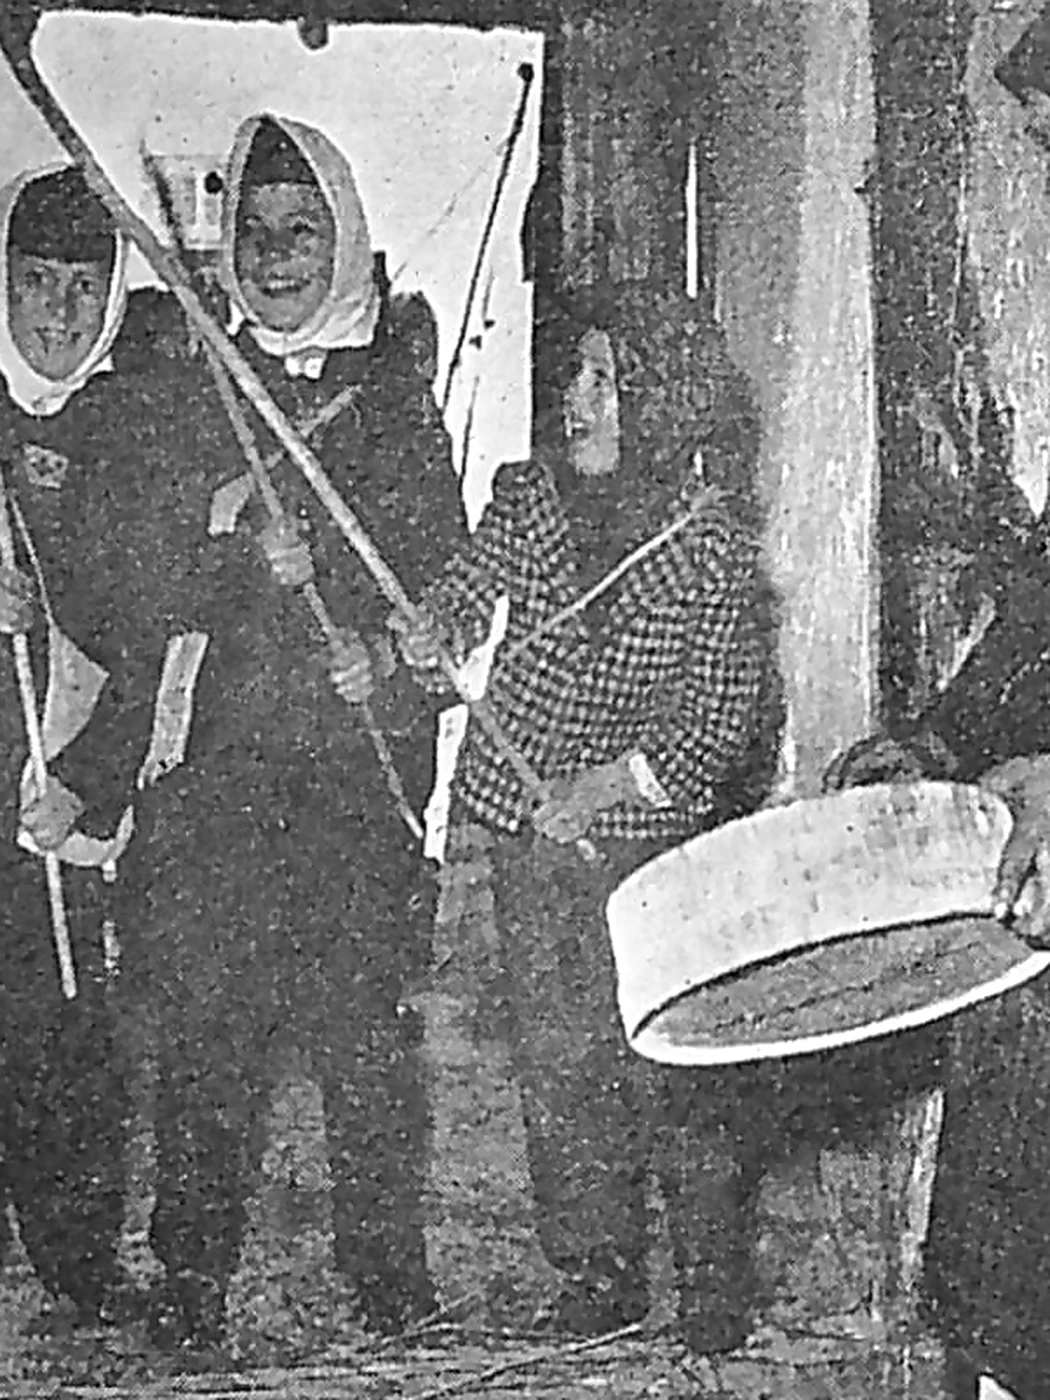
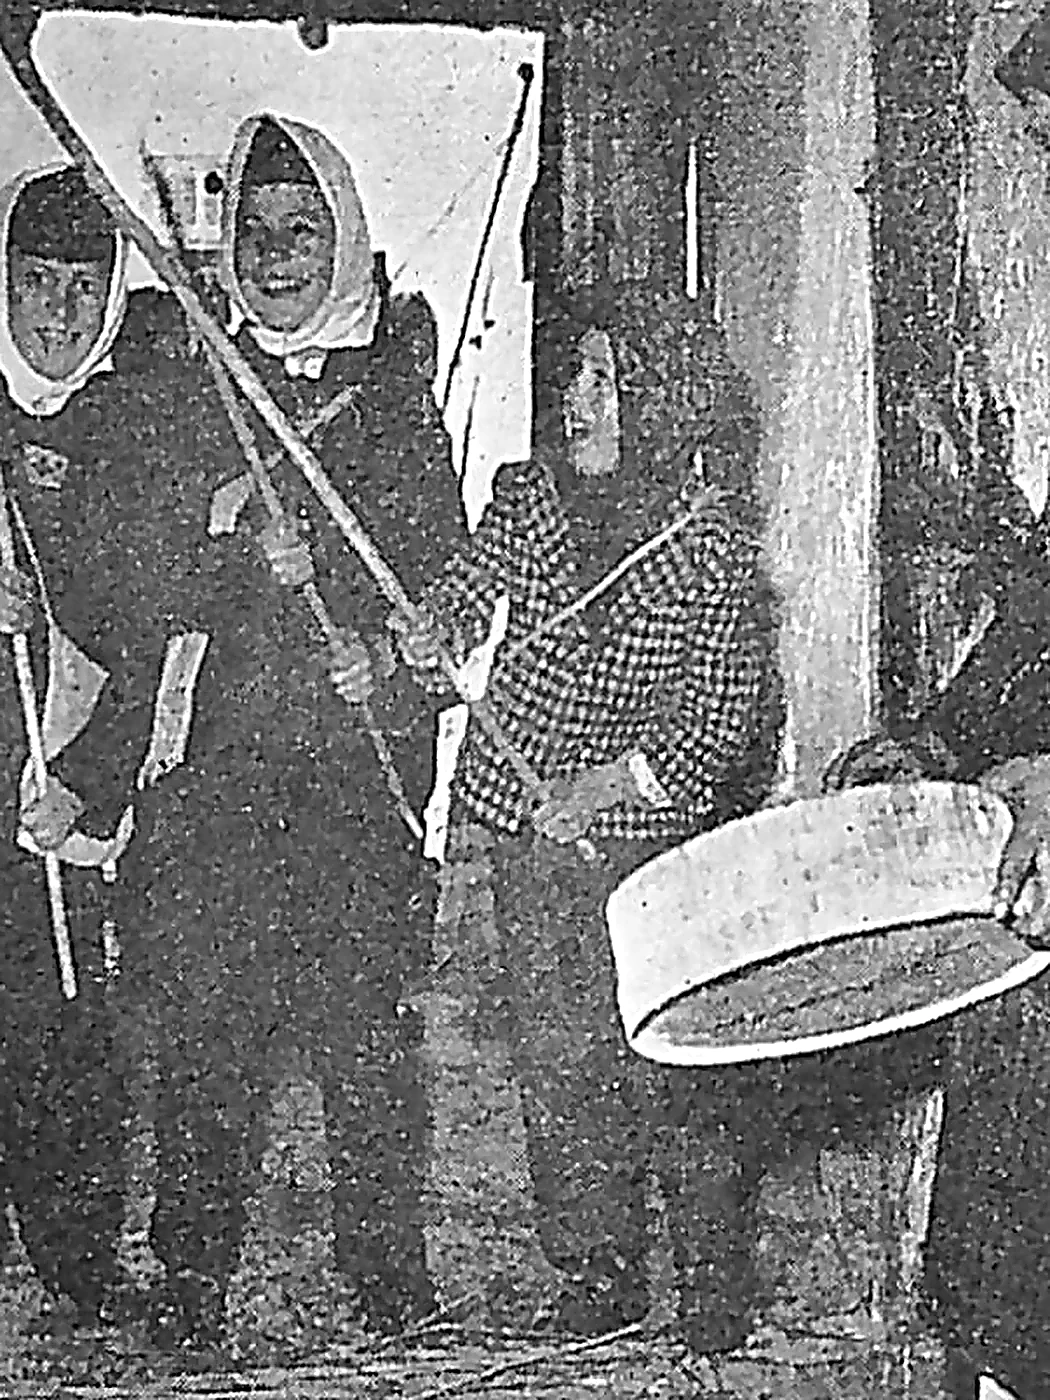
Sharpen Kolede photographs and feature the story in Traditions

diff --git a/kolede.html b/kolede.html
@@ -12,9 +12,9 @@
 <meta property="og:description" content="Children sing at the doorstep on Badnik morning, carrying a Macedonian Christmas tradition from house to house.">
 <meta property="og:image:alt" content="Carolers with wooden sticks gather at the door of a stone house.">
 <meta property="og:title" content="Kolede | Muzej"/>
-<meta property="og:image" content="https://muzej.co/Assets/Kolede/doorway-hero-3x4.webp"/>
+<meta property="og:image" content="https://muzej.co/Assets/Kolede/doorway-hero-3x4.webp?v=20261121-sharp"/>
 <meta name="twitter:card" content="summary_large_image"/>
-<meta name="twitter:image" content="https://muzej.co/Assets/Kolede/doorway-hero-3x4.webp"/>
+<meta name="twitter:image" content="https://muzej.co/Assets/Kolede/doorway-hero-3x4.webp?v=20261121-sharp"/>
 <link href="./Assets/Font/Muzej%20Logo.ai.png" rel="icon" type="image/png"/>
 <link href="./Assets/Font/Muzej%20Logo.ai.png" rel="apple-touch-icon"/>
 <link href="https://fonts.googleapis.com" rel="preconnect"/>
@@ -1122,9 +1122,6 @@ body.muzej-logo-hidden .site-header .brand-mark {
 <link rel="stylesheet" href="article-intro.css?v=20261113-deck-below-fold-2">
 <style>
 .kolede-article .kolede-wide { width: 100%; max-width: 1041px; margin: 80px auto; }
-.kolede-article .kolede-archive-photo { width: min(100%, 425px); margin: clamp(48px, 7vw, 88px) auto; }
-.kolede-article .kolede-archive-photo img { width: 100%; height: auto; }
-.kolede-article .kolede-archive-photo figcaption,
 .kolede-article .kolede-lyrics figcaption { font: 400 12px/1.5 var(--sans); margin: 12px 0 0; }
 .kolede-article .kolede-lyrics { margin: clamp(24px, 4vw, 44px) 0; padding-block: 18px; border-block: 1px solid var(--lz-rule); }
 .kolede-article .kolede-lyrics blockquote { margin: 0; font-family: Georgia, serif; font-size: clamp(20px, 2.3vw, 30px); line-height: 1.4; }
@@ -1181,7 +1178,7 @@ body.muzej-logo-hidden .site-header .brand-mark {
     </div>
     <div class="muzej-intro-media">
       <figure class="lazarki-hero">
-        <img src="./Assets/Kolede/doorway-hero-3x4.webp" alt="Carolers with wooden sticks gather at the door of a stone house." width="873" height="1164" fetchpriority="high">
+        <img src="./Assets/Kolede/doorway-hero-3x4.webp?v=20261121-sharp" alt="Carolers with wooden sticks gather at the door of a stone house." width="873" height="1164" fetchpriority="high">
       </figure>
       <p class="lazarki-deck muzej-intro-deck">On Christmas Eve morning, children go from door to door to sing the news that Christmas is coming.</p>
     </div>
@@ -1190,7 +1187,7 @@ body.muzej-logo-hidden .site-header .brand-mark {
   <article class="article-shell article-longform" aria-label="Kolede">
     <section class="content-row">
       <figure class="article-body-media">
-        <img src="./Assets/Kolede/gradovci-snow-3x4.webp" alt="Children carrying sticks walk through deep snow in Gradovci." width="750" height="1000" loading="lazy" decoding="async">
+        <img src="./Assets/Kolede/gradovci-snow-3x4.webp?v=20261121-sharp" alt="Children carrying sticks walk through deep snow in Gradovci." width="750" height="1000" loading="lazy" decoding="async">
         <figcaption>Children make their Kolede rounds in Gradovci. Vera Kličkova, <a href="https://drive.google.com/file/d/1tvSvvbi-VQbf3Er73xqvJZTLF5SULGus/view?usp=share_link"><i>Bulletin of the Ethnological Museum</i>, no. 1 (1960)</a>, p. 206, fig. 2. Digitally restored and cropped.</figcaption>
       </figure>
       <div class="article-body-copy body-block">
@@ -1209,11 +1206,6 @@ body.muzej-logo-hidden .site-header .brand-mark {
       </div>
     </section>
 
-    <figure class="kolede-archive-photo">
-      <img src="./Assets/Kolede/archive-novo-selo.webp" alt="Children with wooden sticks are welcomed at a doorway in Novo Selo." width="1050" height="1400" loading="lazy" decoding="async">
-      <figcaption>Welcoming the carolers in Novo Selo. Vera Kličkova, <a href="https://drive.google.com/file/d/1tvSvvbi-VQbf3Er73xqvJZTLF5SULGus/view?usp=share_link"><i>Bulletin of the Ethnological Museum</i>, no. 1 (1960)</a>, p. 206, fig. 3.</figcaption>
-    </figure>
-
     <figure class="kolede-wide kolede-film">
       <iframe src="https://www.youtube-nocookie.com/embed/Nk1hrclZ3BU" title="Children singing Kolede in Prilep, filmed by Info Kompas" loading="lazy" allow="encrypted-media; picture-in-picture; fullscreen" allowfullscreen></iframe>
       <figcaption>Children singing <i>Koledica Varvarica</i> and making their rounds in Prilep, January 6, 2025. <a href="https://www.youtube.com/watch?v=Nk1hrclZ3BU">Watch the original Info Kompas report</a>.</figcaption>
@@ -1221,12 +1213,12 @@ body.muzej-logo-hidden .site-header .brand-mark {
 
     <section class="content-row">
       <figure class="article-body-media">
-        <img src="./Assets/Kolede/kumanovo-badnik-procession.webp" alt="Children in winter coats carry gold stars and white balloons at the Badnik procession in Kumanovo." width="1440" height="960" loading="lazy" decoding="async">
-        <figcaption>A public Badnik procession in Kumanovo, 2023. <a href="https://commons.wikimedia.org/wiki/File:%D0%91%D0%B0%D0%B4%D0%BD%D0%B8%D0%BA%D0%BE%D0%B2%D0%B8_%D0%BF%D0%BE%D0%B2%D0%BE%D1%80%D0%BA%D0%B8,_%D0%9A%D1%83%D0%BC%D0%B0%D0%BD%D0%BE%D0%B2%D0%BE_(2023).jpg">NickyMKD</a>, <a href="https://creativecommons.org/licenses/by-sa/4.0/">CC BY-SA 4.0</a>.</figcaption>
+        <img src="./Assets/Kolede/archive-novo-selo.webp?v=20261121-sharp" alt="Children with wooden sticks are welcomed at a doorway in Novo Selo." width="1050" height="1400" loading="lazy" decoding="async">
+        <figcaption>Welcoming the carolers in Novo Selo. Vera Kličkova, <a href="https://drive.google.com/file/d/1tvSvvbi-VQbf3Er73xqvJZTLF5SULGus/view?usp=share_link"><i>Bulletin of the Ethnological Museum</i>, no. 1 (1960)</a>, p. 206, fig. 3.</figcaption>
       </figure>
       <div class="article-body-copy body-block">
         <h2 class="chapter-heading">From house to street</h2>
-        <p>Children also sing in organized Badnik processions. In Kumanovo, a 2023 photograph shows young participants carrying gold stars through the street. In Skopje, the Badnikovi Povorki association’s 2026 program called for children to gather at the city museum and walk to Macedonia Square, where a Nativity scene had been set up. The song associated with these processions, <i>Večniot Bog</i>, is a Christmas hymn. In the Prilep footage, the children sing the shorter neighborhood song at the door.</p>
+        <p>Children also sing in organized Badnik processions. In Skopje, the Badnikovi Povorki association’s 2026 program called for children to gather at the city museum and walk to Macedonia Square, where a Nativity scene had been set up. The song associated with these processions, <i>Večniot Bog</i>, is a Christmas hymn. In the Prilep footage, the children sing the shorter neighborhood song at the door.</p>
         <p>In that same report, Prilep resident Vaska Ilioska recalled how her family learned the custom from their elders and described giving the children chestnuts. Another resident, Bisera Petroska, said fewer children were coming around than she remembered.</p>
         <section class="sources-section muzej-sources" aria-labelledby="kolede-sources">
           <h2 class="section-heading" id="kolede-sources">Sources</h2>

diff --git a/index.html b/index.html
@@ -86,6 +86,10 @@
 <button type="button" data-step="-1" aria-label="Previous Traditions stories" aria-controls="traditions-stories"><svg viewBox="0 0 24 24" width="22" height="22" fill="none" stroke="currentColor" stroke-width="1.2" aria-hidden="true"><path d="M20 12H4m7-7-7 7 7 7"/></svg></button>
 <button type="button" data-step="1" aria-label="Next Traditions stories" aria-controls="traditions-stories"><svg viewBox="0 0 24 24" width="22" height="22" fill="none" stroke="currentColor" stroke-width="1.2" aria-hidden="true"><path d="M4 12h16m-7-7 7 7-7 7"/></svg></button>
 </div></div><div class="four-grid" id="traditions-stories">
+<article class="story">
+  <a class="story-media" href="./kolede.html"><img alt="Children carrying sticks walk through deep snow in Gradovci." decoding="async" loading="lazy" width="750" height="1000" src="./Assets/Kolede/gradovci-snow-3x4.webp?v=20261121-sharp"/></a>
+  <div class="story-copy"><p class="eyebrow">Ritual</p><h3 class="home-story-headline"><a href="./kolede.html">Kolede</a></h3><p class="story-deck">Christmas Eve songs carried from door to door.</p></div>
+</article>
 <article class="story"><a class="story-media" href="./vodici-in-bituse.html"><img alt="A woman carrying a wicker basket against the snowy mountains of Bituše" class="" decoding="async" loading="lazy" src="./Assets/Vodici/web/vodici-05-retouched.webp"/></a><div class="story-copy"><p class="eyebrow">Ritual | Bituše</p><h3 class="home-story-headline"><a href="./vodici-in-bituse.html">Vodici in Bituše</a></h3><p class="story-deck">Bread, song, and a January homecoming.</p></div></article><article class="story"><a class="story-media" href="./lazarki.html"><img alt="Young women in traditional dress arranging flowers in a basket" class="" decoding="async" loading="lazy" src="./Assets/Homepage/lazarki-07.webp"/></a><div class="story-copy"><p class="eyebrow">Ritual</p><h3 class="home-story-headline"><a href="./lazarki.html">Lazarki</a></h3><p class="story-deck">Spring blessings carried from house to house.</p></div></article><article class="story"><a class="story-media" href="./rusalii.html"><img alt="Restored and colorized archival portrait of a Rusalii dancer with an arm and knee raised" class="" decoding="async" loading="lazy" src="./Assets/Rusalii/rusalii-01.webp"/></a><div class="story-copy"><p class="eyebrow">Ritual | Sekirnik</p><h3 class="home-story-headline"><a href="./rusalii.html">Rusalii</a></h3><p class="story-deck">The sword dancers of Sekirnik.</p></div></article><article class="story"><a class="story-media" href="./dodole.html"><img alt="Archival photograph of women and girls gathered around a Macedonian rain-making ritual" class="" decoding="async" loading="lazy" src="./Assets/Homepage/rain2.webp"/></a><div class="story-copy"><p class="eyebrow">Ritual</p><h3 class="home-story-headline"><a href="./dodole.html">Dodole</a></h3><p class="story-deck">A song asking for rain.</p></div></article>
 <article class="story"><a class="story-media chorapi-card-media" href="./chorapi.html"><img alt="Two patterned wool stockings from Serfidže laid flat, with cream cuffs and red and gold bands" decoding="async" loading="lazy" src="./Assets/Chorapi/serfidze-stockings-flat.webp"/></a><div class="story-copy"><p class="eyebrow">Object Study</p><h3 class="home-story-headline"><a href="./chorapi.html">Čorapi</a></h3><p class="story-deck">Patterned wool stockings from Gorni Polog and Serfidže.</p></div></article>
 </div></section>
